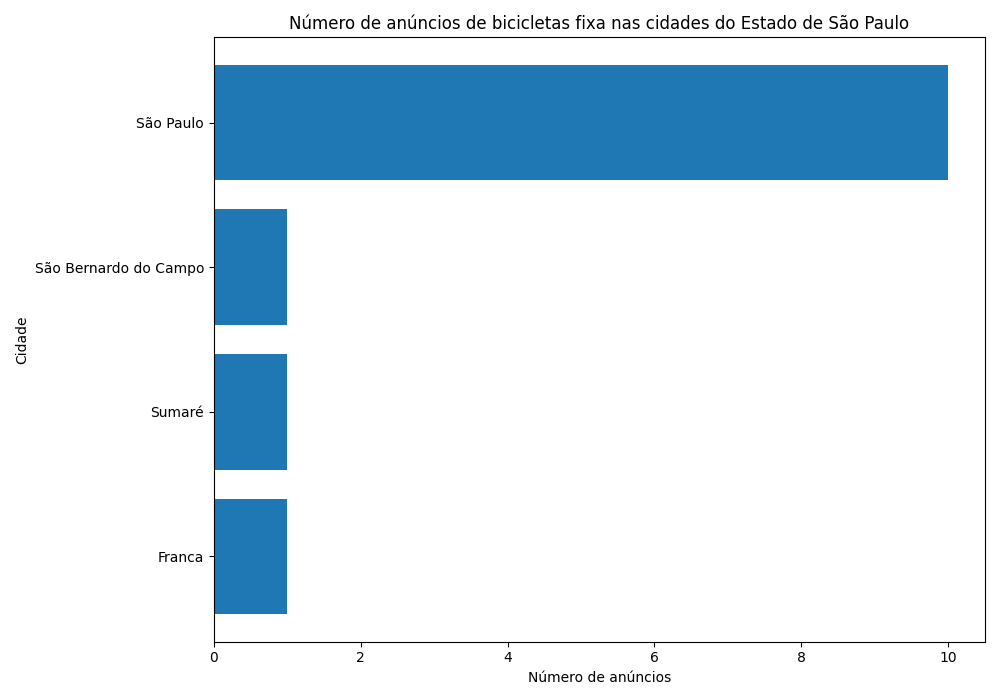
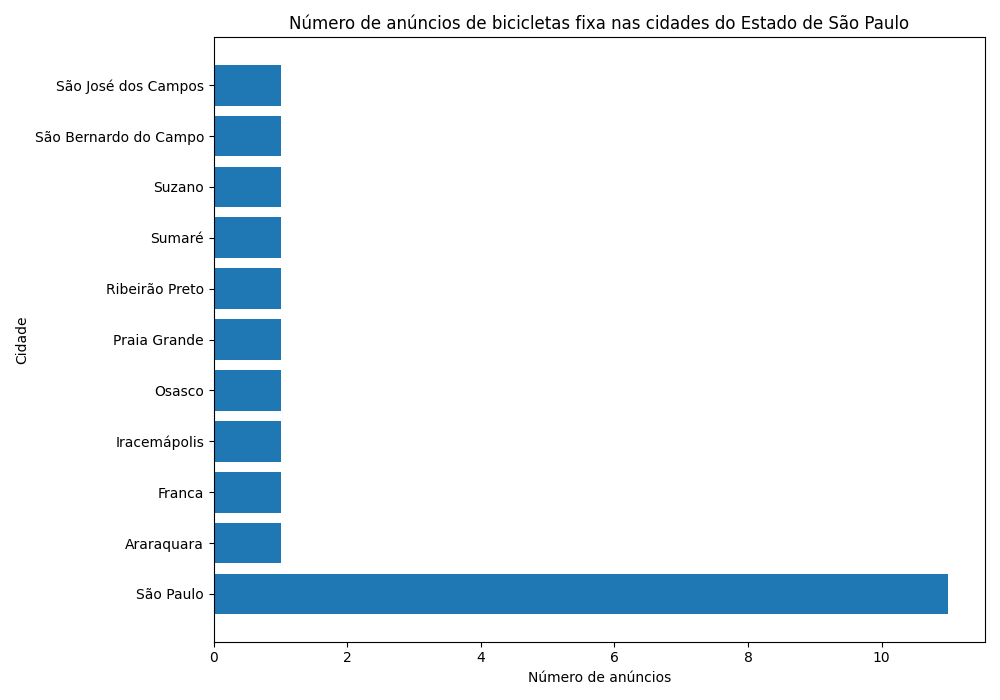
update on bot to find the ads

diff --git a/analysis_bikes.py b/analysis_bikes.py
@@ -115,5 +115,5 @@ else:
 ax.set_title('Número de anúncios de bicicletas fixa nas cidades do Estado de São Paulo')
 
 plt.tight_layout()
-# plt.savefig("./images/number_of_ads_bycity.png")
+plt.savefig("./images/number_of_ads_bycity.png")
 plt.show()

diff --git a/README.md b/README.md
@@ -43,7 +43,7 @@ The images are updated every 12 hours, and show the result of the search for key
 
 The data obtained allows answers to questions with a graphic presentation of the average value of bicycles per city.
 
-The result of ads with a value lower than the average value of ads in the state of são paulo is in the table in markdown [TMD](/dados_bike_busca.md).
+The result of ads with a value lower than the average value of ads in the state of são paulo is in the table in markdown [TMD](/busca_bike_dados.md).
 
 ![graphnumber](/images/median_price_of_bike.png)
 
